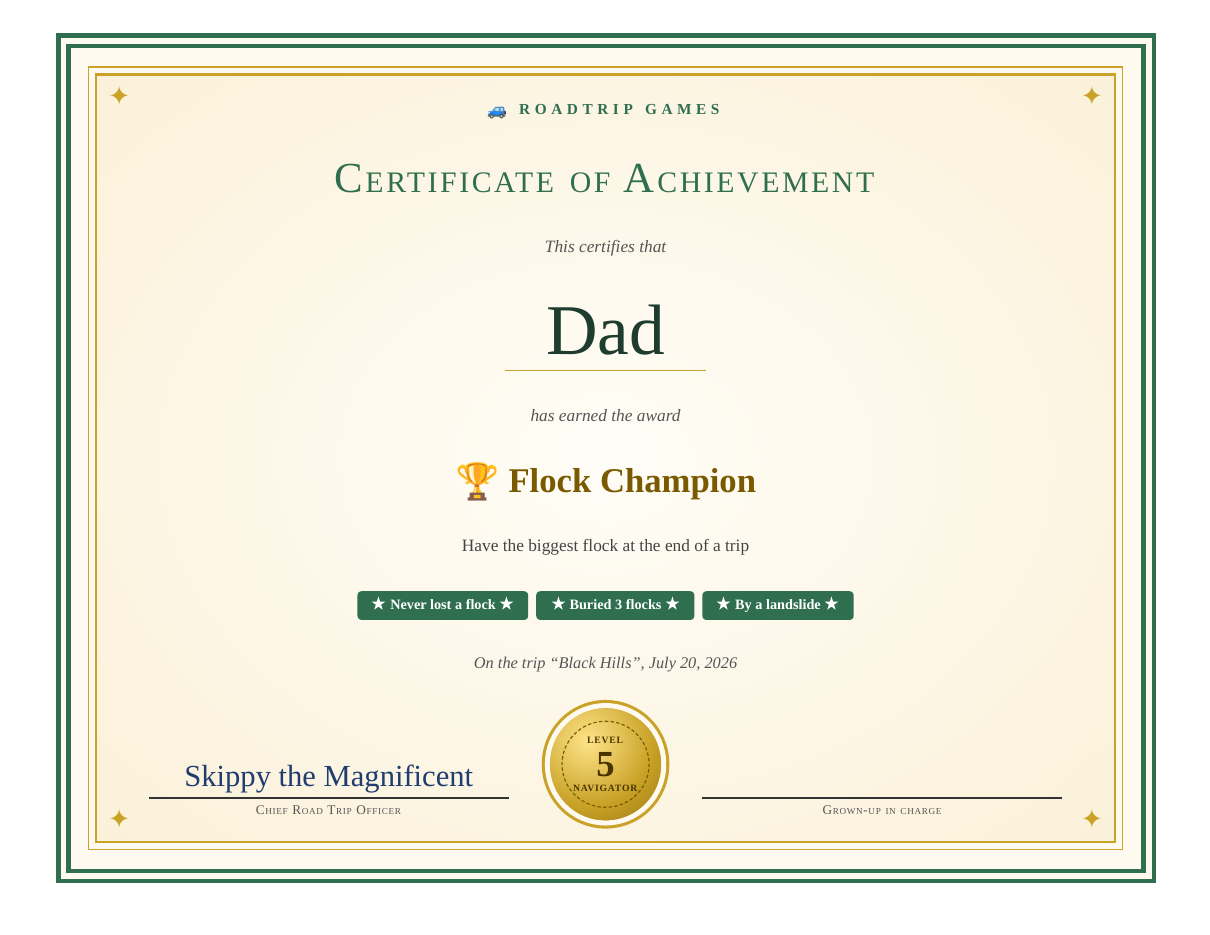
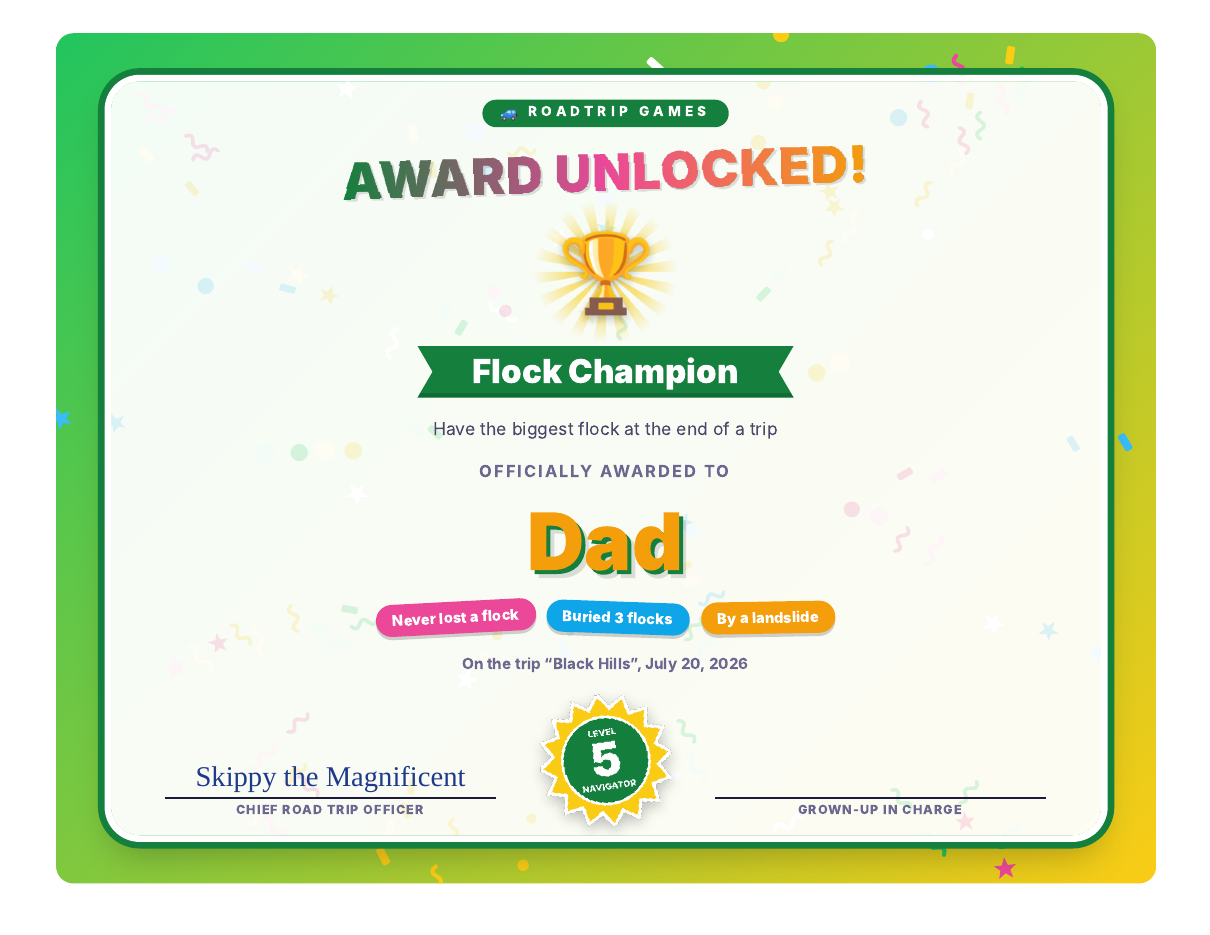
Bright, confetti-filled certificates themed by game
Claude-Session: https://claude.ai/code/session_01KLykwj4owJG8ijRHGYJAnb

diff --git a/web/style.css b/web/style.css
@@ -267,61 +267,76 @@ button.holy { background: #f3e3a3; border-color: #e0c860; color: #5a4600; }
 code { font-size: 0.8em; word-break: break-all; }
 .steps a, .card p a { color: var(--green); }
 
-/* Certificates: always paper-coloured, whatever the night setting. */
+/* Certificates: bright and loud on purpose, whatever the night setting. */
 button.small { padding: 6px 10px; font-size: 0.85em; }
 .award.got[data-act] { cursor: pointer; }
 .tip { margin: -6px 0 12px; font-size: 0.85em; }
-.cert-wrap { display: none; position: fixed; inset: 0; z-index: 60; overflow: auto; background: rgba(30, 30, 30, 0.92); padding: 0 16px 24px; }
+.cert-wrap { display: none; position: fixed; inset: 0; z-index: 60; overflow: auto; background: rgba(20, 20, 30, 0.94); padding: 0 16px 24px; }
 .cert-wrap.open { display: block; }
-.cert-bar { position: sticky; top: 0; display: flex; gap: 10px; justify-content: center; padding: 12px 0; z-index: 1; }
+.cert-bar { position: sticky; top: 0; display: flex; gap: 10px; justify-content: center; padding: 12px 0; z-index: 2; }
 .cert-bar button { flex: none; }
 .cert-bar .ghost { color: #fff; border-color: rgba(255, 255, 255, 0.6); }
 .cert {
-  box-sizing: border-box; container-type: inline-size; width: min(100%, 1100px); aspect-ratio: 11 / 8.5; margin: 0 auto;
-  background: #fffaf0; color: #2b2b2b; padding: 2.2cqw; box-shadow: 0 10px 40px rgba(0, 0, 0, 0.5);
-  border: 1.4cqw double #2f6f4f; font-family: Georgia, 'Times New Roman', serif;
+  box-sizing: border-box; container-type: inline-size; position: relative; overflow: hidden;
+  width: min(100%, 1100px); aspect-ratio: 11 / 8.5; margin: 0 auto; border-radius: 1.5cqw;
+  background: linear-gradient(135deg, var(--g1), var(--g2)); box-shadow: 0 12px 50px rgba(0, 0, 0, 0.5);
+  font-family: 'Arial Rounded MT Bold', 'Avenir Next', 'Nunito', 'Trebuchet MS', system-ui, sans-serif; color: #1e1b3a;
   -webkit-print-color-adjust: exact; print-color-adjust: exact;
 }
-.cert-in { box-sizing: border-box; position: relative; height: 100%; border: 0.3cqw solid #c9a227; outline: 0.12cqw solid #c9a227; outline-offset: 0.6cqw;
-  display: flex; flex-direction: column; align-items: center; justify-content: space-between; text-align: center; padding: 2.4cqw 4cqw 2cqw;
-  background: radial-gradient(ellipse at center, #fffdf7 0%, #fbf1d9 100%); }
-.c-corner { position: absolute; color: #c9a227; font-size: 2.6cqw; line-height: 1; }
-.c-corner.tl { top: 0.8cqw; left: 1cqw; } .c-corner.tr { top: 0.8cqw; right: 1cqw; }
-.c-corner.bl { bottom: 0.8cqw; left: 1cqw; } .c-corner.br { bottom: 0.8cqw; right: 1cqw; }
-.c-brand { font-size: 1.5cqw; letter-spacing: 0.3em; text-transform: uppercase; color: #2f6f4f; font-weight: 700; }
-.c-kind { font-size: 4.2cqw; font-variant: small-caps; letter-spacing: 0.06em; color: #2f6f4f; line-height: 1.1; }
-.c-small { font-size: 1.7cqw; font-style: italic; color: #555; }
-.c-name { font-family: 'Snell Roundhand', 'Apple Chancery', 'Segoe Script', 'Brush Script MT', cursive; font-size: 7cqw; line-height: 1.1; color: #1f3d2e;
-  border-bottom: 0.15cqw solid #c9a227; padding: 0 4cqw; }
-.c-title { font-size: 3.4cqw; font-weight: 700; color: #7a5a00; line-height: 1.15; }
-.c-icon { margin-right: 1cqw; }
-.c-times { display: block; font-size: 1.6cqw; font-weight: 400; font-style: italic; color: #555; }
-.c-desc { font-size: 1.7cqw; color: #444; max-width: 70cqw; }
-.c-ribbons { display: flex; flex-wrap: wrap; gap: 0.8cqw; justify-content: center; max-width: 80cqw; }
-.c-ribbons span { background: #2f6f4f; color: #fff; font-size: 1.4cqw; padding: 0.4cqw 1.4cqw; border-radius: 0.4cqw; font-weight: 700; }
-.c-when { font-size: 1.6cqw; color: #555; font-style: italic; }
-.c-table { border-collapse: collapse; font-size: 1.6cqw; }
-.c-table td { padding: 0.3cqw 1.6cqw; border-bottom: 0.1cqw solid #e2d3a8; text-align: left; }
-.c-table td:nth-child(2) { text-align: right; font-weight: 700; }
-.c-earned { font-size: 1.3cqw; color: #555; max-width: 85cqw; }
-.c-earned span { white-space: nowrap; margin: 0 0.6cqw; }
+.cert * { -webkit-print-color-adjust: exact; print-color-adjust: exact; }
+.c-confetti { position: absolute; inset: 0; width: 100%; height: 100%; }
+.cert-in > .c-confetti { opacity: 0.16; pointer-events: none; }
+.cert-in > :not(.c-confetti) { position: relative; }
+.cert-in { position: absolute; inset: 4.4cqw 5cqw; overflow: hidden; box-sizing: border-box; border-radius: 2.6cqw; background: rgba(255, 255, 255, 0.95);
+  box-shadow: 0 0 0 0.6cqw #fff, 0 0 0 1.2cqw var(--a1), 0 1.6cqw 3cqw rgba(0, 0, 0, 0.25);
+  display: flex; flex-direction: column; align-items: center; justify-content: space-between; text-align: center; padding: 1.6cqw 4cqw 1.4cqw; }
+.c-brand { font-size: 1.25cqw; letter-spacing: 0.3em; text-transform: uppercase; color: #fff; background: var(--a1); padding: 0.4cqw 1.6cqw; border-radius: 99px; font-weight: 800; }
+.c-kind { font-size: 4.6cqw; font-weight: 900; line-height: 1; text-transform: uppercase; letter-spacing: 0.02em;
+  background: linear-gradient(90deg, var(--a1), #ec4899, var(--a2)); -webkit-background-clip: text; background-clip: text; color: transparent;
+  transform: rotate(-2deg); filter: drop-shadow(0.25cqw 0.25cqw 0 rgba(0, 0, 0, 0.12)); }
+.c-hero { position: relative; width: 10cqw; height: 10cqw; display: grid; place-items: center; }
+.c-rays { position: absolute; inset: -1.6cqw; border-radius: 50%;
+  background: repeating-conic-gradient(from 0deg, var(--g2) 0 10deg, transparent 10deg 20deg); opacity: 0.55;
+  -webkit-mask: radial-gradient(circle, #000 35%, transparent 70%); mask: radial-gradient(circle, #000 35%, transparent 70%); }
+.c-icon { position: relative; font-size: 7cqw; line-height: 1; filter: drop-shadow(0 0.4cqw 0.4cqw rgba(0, 0, 0, 0.25)); }
+.c-banner { position: relative; background: var(--a1); color: #fff; font-size: 3cqw; font-weight: 900; padding: 0.7cqw 5cqw; line-height: 1.1;
+  clip-path: polygon(0 0, 100% 0, 96% 50%, 100% 100%, 0 100%, 4% 50%); box-shadow: inset 0 -0.4cqw 0 rgba(0, 0, 0, 0.15); }
+.c-times { display: inline-block; margin-left: 1cqw; background: var(--a2); border-radius: 99px; padding: 0 1.2cqw; font-size: 0.8em; transform: rotate(6deg); }
+.c-desc { font-size: 1.6cqw; color: #4b4769; max-width: 70cqw; }
+.c-small { font-size: 1.5cqw; color: #6b6790; font-weight: 700; text-transform: uppercase; letter-spacing: 0.12em; }
+.c-name { font-size: 7.2cqw; font-weight: 900; line-height: 1; color: var(--a2);
+  text-shadow: 0.35cqw 0.35cqw 0 var(--a1), 0.7cqw 0.7cqw 0 rgba(0, 0, 0, 0.12); max-width: 85cqw; overflow-wrap: anywhere; }
+.c-ribbons { display: flex; flex-wrap: wrap; gap: 0.8cqw 1cqw; justify-content: center; max-width: 82cqw; }
+.c-ribbons span { color: #fff; font-size: 1.35cqw; padding: 0.5cqw 1.5cqw; border-radius: 99px; font-weight: 800; box-shadow: 0 0.3cqw 0 rgba(0, 0, 0, 0.18); }
+.c-ribbons span:nth-child(5n+1) { background: #ec4899; transform: rotate(-3deg); }
+.c-ribbons span:nth-child(5n+2) { background: #0ea5e9; transform: rotate(2deg); }
+.c-ribbons span:nth-child(5n+3) { background: #f59e0b; transform: rotate(-1deg); }
+.c-ribbons span:nth-child(5n+4) { background: #10b981; transform: rotate(3deg); }
+.c-ribbons span:nth-child(5n+5) { background: #8b5cf6; transform: rotate(-2deg); }
+.c-when { font-size: 1.4cqw; color: #6b6790; font-weight: 700; }
+.c-table { border-collapse: separate; border-spacing: 0.5cqw 0.3cqw; font-size: 1.5cqw; }
+.c-table td { padding: 0.3cqw 1.4cqw; background: #f3f0ff; text-align: left; border-radius: 0.6cqw; font-weight: 700; }
+.c-table td:nth-child(2) { text-align: right; color: var(--a1); }
+.c-table td:nth-child(3) { background: none; font-size: 1.3em; padding: 0; }
+.c-earned { font-size: 1.2cqw; color: #4b4769; max-width: 85cqw; font-weight: 700; }
+.c-earned span { white-space: nowrap; margin: 0 0.5cqw; }
 .c-foot { width: 100%; display: flex; align-items: flex-end; justify-content: space-between; gap: 3cqw; }
 .c-sig { flex: 1; }
-.c-sig-name { font-family: 'Snell Roundhand', 'Apple Chancery', 'Segoe Script', 'Brush Script MT', cursive; font-size: 3cqw; color: #1f3d6e; line-height: 1.2; }
-.c-sig-line { border-top: 0.15cqw solid #333; margin: 0.3cqw 1cqw; }
-.c-sig-title { font-size: 1.3cqw; color: #555; font-variant: small-caps; letter-spacing: 0.05em; }
-.c-seal { flex: none; width: 11cqw; height: 11cqw; border-radius: 50%; display: grid; place-items: center;
-  background: radial-gradient(circle at 35% 30%, #ffe58a, #c9a227 60%, #9c7a12); box-shadow: 0 0 0 0.5cqw #fffaf0, 0 0 0 0.8cqw #c9a227; }
-.c-seal-in { width: 8.6cqw; height: 8.6cqw; border-radius: 50%; border: 0.2cqw dashed #7a5a00; display: flex; flex-direction: column; align-items: center; justify-content: center; color: #4a3500; }
-.c-seal-in b { font-size: 3.6cqw; line-height: 1; }
-.c-seal-in small { font-size: 0.95cqw; font-weight: 700; letter-spacing: 0.08em; text-transform: uppercase; line-height: 1.2; max-width: 8cqw; }
+.c-sig-name { font-family: 'Snell Roundhand', 'Apple Chancery', 'Segoe Script', 'Brush Script MT', cursive; font-size: 2.6cqw; color: #1e3a8a; line-height: 1.2; }
+.c-sig-line { border-top: 0.2cqw solid #1e1b3a; margin: 0.3cqw 1cqw; }
+.c-sig-title { font-size: 1.15cqw; color: #6b6790; font-weight: 800; text-transform: uppercase; letter-spacing: 0.08em; }
+.c-burst { position: relative; flex: none; width: 12cqw; height: 12cqw; margin-bottom: -0.6cqw; transform: rotate(-8deg); filter: drop-shadow(0 0.5cqw 0.6cqw rgba(0, 0, 0, 0.25)); }
+.c-burst svg { position: absolute; inset: 0; width: 100%; height: 100%; }
+.c-burst-in { position: absolute; inset: 0; display: flex; flex-direction: column; align-items: center; justify-content: center; color: #fff; }
+.c-burst-in b { font-size: 4.2cqw; line-height: 0.95; font-weight: 900; }
+.c-burst-in small { font-size: 0.78cqw; font-weight: 800; letter-spacing: 0.08em; text-transform: uppercase; line-height: 1.15; max-width: 9cqw; letter-spacing: 0.04em; }
 
 @media print {
   @page { size: letter landscape; margin: 0.3in; }
   body.cert-open > *:not(#cert) { display: none !important; }
   body.cert-open { background: #fff !important; }
+  html, body { height: auto; overflow: visible; }
   .cert-wrap.open { position: static; overflow: visible; background: none; padding: 0; }
   .cert-bar { display: none; }
   .cert { width: 10in; box-shadow: none; margin: 0 auto; break-inside: avoid; }
-  html, body { height: auto; overflow: visible; }
 }

diff --git a/web/app.js b/web/app.js
@@ -455,23 +455,60 @@ function signer() { return { name: db.signer || 'Skippy the Magnificent', title:
 const ordinal = n => n + (n % 100 >= 11 && n % 100 <= 13 ? 'th' : ['th', 'st', 'nd', 'rd'][n % 10] || 'th');
 const longDate = ts => new Date(ts).toLocaleDateString(undefined, { month: 'long', day: 'numeric', year: 'numeric' });
 
-function certPage({ kind, name, intro, icon, title, desc, ribbons = [], body = '', when, level }) {
-  const sg = signer();
-  return `<div class="cert"><div class="cert-in">
-    <div class="c-corner tl">✦</div><div class="c-corner tr">✦</div><div class="c-corner bl">✦</div><div class="c-corner br">✦</div>
+const CERT_THEMES = {
+  flocks: ['#22c55e', '#facc15', '#15803d', '#f59e0b'],
+  zombies: ['#a855f7', '#84cc16', '#6d28d9', '#65a30d'],
+  volvos: ['#3b82f6', '#f97316', '#1d4ed8', '#ea580c'],
+  plates: ['#ef4444', '#3b82f6', '#b91c1c', '#1d4ed8'],
+  trips: ['#06b6d4', '#8b5cf6', '#0e7490', '#7c3aed'],
+  level: ['#f43f5e', '#f59e0b', '#be123c', '#7c3aed'],
+};
+
+// Confetti scattered round the page, the same every time for the same name.
+function confetti(seedText, colors) {
+  let seed = 7;
+  for (const ch of seedText) seed = (seed * 31 + ch.charCodeAt(0)) % 2147483647;
+  const rnd = () => (seed = (seed * 16807) % 2147483647) / 2147483647;
+  let out = '';
+  for (let i = 0; i < 70; i++) {
+    const x = rnd() * 1100, y = rnd() * 850, r = rnd() * 360, c = colors[i % colors.length], k = rnd();
+    const t = `transform="translate(${x.toFixed(0)} ${y.toFixed(0)}) rotate(${r.toFixed(0)})" fill="${c}"`;
+    if (k < 0.3) out += `<rect ${t} x="-9" y="-4" width="18" height="8" rx="2"/>`;
+    else if (k < 0.55) out += `<circle ${t} r="${(4 + rnd() * 6).toFixed(1)}"/>`;
+    else if (k < 0.75) out += `<path ${t} d="M0,-11 L3,-3 11,-3 5,2 7,10 0,5 -7,10 -5,2 -11,-3 -3,-3Z"/>`;
+    else out += `<path ${t.replace(`fill="${c}"`, `fill="none" stroke="${c}"`)} stroke-width="4" stroke-linecap="round" d="M-14,0 q5,-8 10,0 t10,0 t10,0"/>`;
+  }
+  return `<svg class="c-confetti" viewBox="0 0 1100 850" preserveAspectRatio="none" aria-hidden="true">${out}</svg>`;
+}
+
+function starburst(level, colors) {
+  const pts = [];
+  for (let i = 0; i < 32; i++) {
+    const a = (Math.PI * 2 * i) / 32, r = i % 2 ? 40 : 50;
+    pts.push(`${(50 + r * Math.cos(a)).toFixed(1)},${(50 + r * Math.sin(a)).toFixed(1)}`);
+  }
+  return `<div class="c-burst"><svg viewBox="0 0 100 100" aria-hidden="true"><polygon points="${pts.join(' ')}" fill="${colors[1]}" stroke="#fff" stroke-width="2.5"/><circle cx="50" cy="50" r="33" fill="${colors[2]}" stroke="#fff" stroke-width="2"/></svg>
+    <div class="c-burst-in"><small>LEVEL</small><b>${level.level}</b><small>${esc(level.title)}</small></div></div>`;
+}
+
+function certPage({ kind, name, intro, icon, title, desc, ribbons = [], body = '', when, level, theme = 'trips' }) {
+  const sg = signer(), c = CERT_THEMES[theme] || CERT_THEMES.trips;
+  const confettiColors = [c[0], c[1], '#ec4899', '#facc15', '#38bdf8', '#ffffff'];
+  const bits = confetti(name + title, confettiColors);
+  return `<div class="cert" style="--g1:${c[0]};--g2:${c[1]};--a1:${c[2]};--a2:${c[3]}">${bits}<div class="cert-in">${bits}
     <div class="c-brand">🚙 Roadtrip Games</div>
     <div class="c-kind">${kind}</div>
-    <div class="c-small">This certifies that</div>
-    <div class="c-name">${esc(name)}</div>
-    <div class="c-small">${intro}</div>
-    <div class="c-title">${icon ? `<span class="c-icon">${icon}</span>` : ''}${title}</div>
+    <div class="c-hero"><span class="c-rays"></span><span class="c-icon">${icon || '⭐'}</span></div>
+    <div class="c-banner"><span>${title}</span></div>
     ${desc ? `<div class="c-desc">${desc}</div>` : ''}
-    ${ribbons.length ? `<div class="c-ribbons">${ribbons.map(r => `<span>★ ${esc(r)} ★</span>`).join('')}</div>` : ''}
+    <div class="c-small">${intro}</div>
+    <div class="c-name">${esc(name)}</div>
+    ${ribbons.length ? `<div class="c-ribbons">${ribbons.map(r => `<span>${esc(r)}</span>`).join('')}</div>` : ''}
     ${body}
     ${when ? `<div class="c-when">${when}</div>` : ''}
     <div class="c-foot">
       <div class="c-sig"><div class="c-sig-name">${esc(sg.name)}</div><div class="c-sig-line"></div><div class="c-sig-title">${esc(sg.title)}</div></div>
-      <div class="c-seal"><div class="c-seal-in"><small>LEVEL</small><b>${level.level}</b><small>${esc(level.title)}</small></div></div>
+      ${starburst(level, c)}
       <div class="c-sig"><div class="c-sig-name">&nbsp;</div><div class="c-sig-line"></div><div class="c-sig-title">Grown-up in charge</div></div>
     </div></div></div>`;
 }
@@ -485,9 +522,9 @@ function awardCert(pid, awardId, tripId) {
   const at = trip ? (trip.awards.find(x => x.player === pid && x.award === awardId) || {}).ts : got.ts;
   const lvl = levelFor(trip && trip.end && trip.badgesAtEnd[pid] !== undefined ? trip.badgesAtEnd[pid] : l.badges);
   return certPage({
-    kind: a.hidden ? 'Certificate of Secret Achievement' : 'Certificate of Achievement',
-    name: state.players[pid].name, intro: 'has earned the award', icon: a.icon,
-    title: esc(a.name) + (n > 1 ? ` <span class="c-times">for the ${ordinal(n)} time</span>` : ''),
+    kind: a.hidden ? 'Secret award unlocked!' : 'Award unlocked!', theme: a.game === 'trips' ? 'trips' : a.game,
+    name: state.players[pid].name, intro: 'Officially awarded to', icon: a.icon,
+    title: esc(a.name) + (n > 1 ? ` <span class="c-times">×${n}</span>` : ''),
     desc: esc(a.desc), ribbons: trip ? endorsements(trip, pid, a.game) : [],
     when: `${trip ? `On the trip “${esc(trip.name)}”, ` : ''}${longDate(at || got.ts)}`, level: lvl,
   });
@@ -498,7 +535,7 @@ function levelCert(pid) {
   const wins = l.wins.flocks + l.wins.zombies + l.wins.volvos;
   const ribbons = [plural(l.trips, 'trip', 'trips'), plural(wins, 'win', 'wins'), plural(Object.keys(l.awards).length, 'different award', 'different awards')];
   return certPage({
-    kind: 'Certificate of Rank', name: state.players[pid].name, intro: 'has reached the rank of', icon: '⭐',
+    kind: 'Level up!', theme: 'level', name: state.players[pid].name, intro: 'Promoted with honours:', icon: '🚀',
     title: `Level ${lv.level} · ${esc(lv.title)}`, desc: `By earning ${plural(l.badges, 'award', 'awards')} on the road, repeats included`,
     ribbons, when: longDate(Date.now()), level: lv,
   });
@@ -518,7 +555,7 @@ function tripCert(pid, tripId) {
   const body = `<table class="c-table">${rows}</table>${icons.length ? `<div class="c-earned">Awards on this trip: ${icons.map(a => `<span>${a.icon} ${esc(a.name)}</span>`).join('')}</div>` : ''}`;
   const ribbons = CONTESTS.flatMap(c => endorsements(trip, pid, c.id).map(r => `${c.icon} ${r}`)).slice(0, 5);
   return certPage({
-    kind: 'Road Trip Certificate', name: state.players[pid].name, intro: 'rode along and played on', icon: '🛣',
+    kind: 'Road trip legend!', theme: 'trips', name: state.players[pid].name, intro: 'Rode along, played hard and survived:', icon: '🛣',
     title: `“${esc(trip.name)}”`, ribbons, body,
     when: `${longDate(trip.start)}${trip.end && new Date(trip.end).toDateString() !== new Date(trip.start).toDateString() ? ' to ' + longDate(trip.end) : ''}`,
     level: levelFor(trip.badgesAtEnd[pid] !== undefined ? trip.badgesAtEnd[pid] : state.life[pid].badges),
